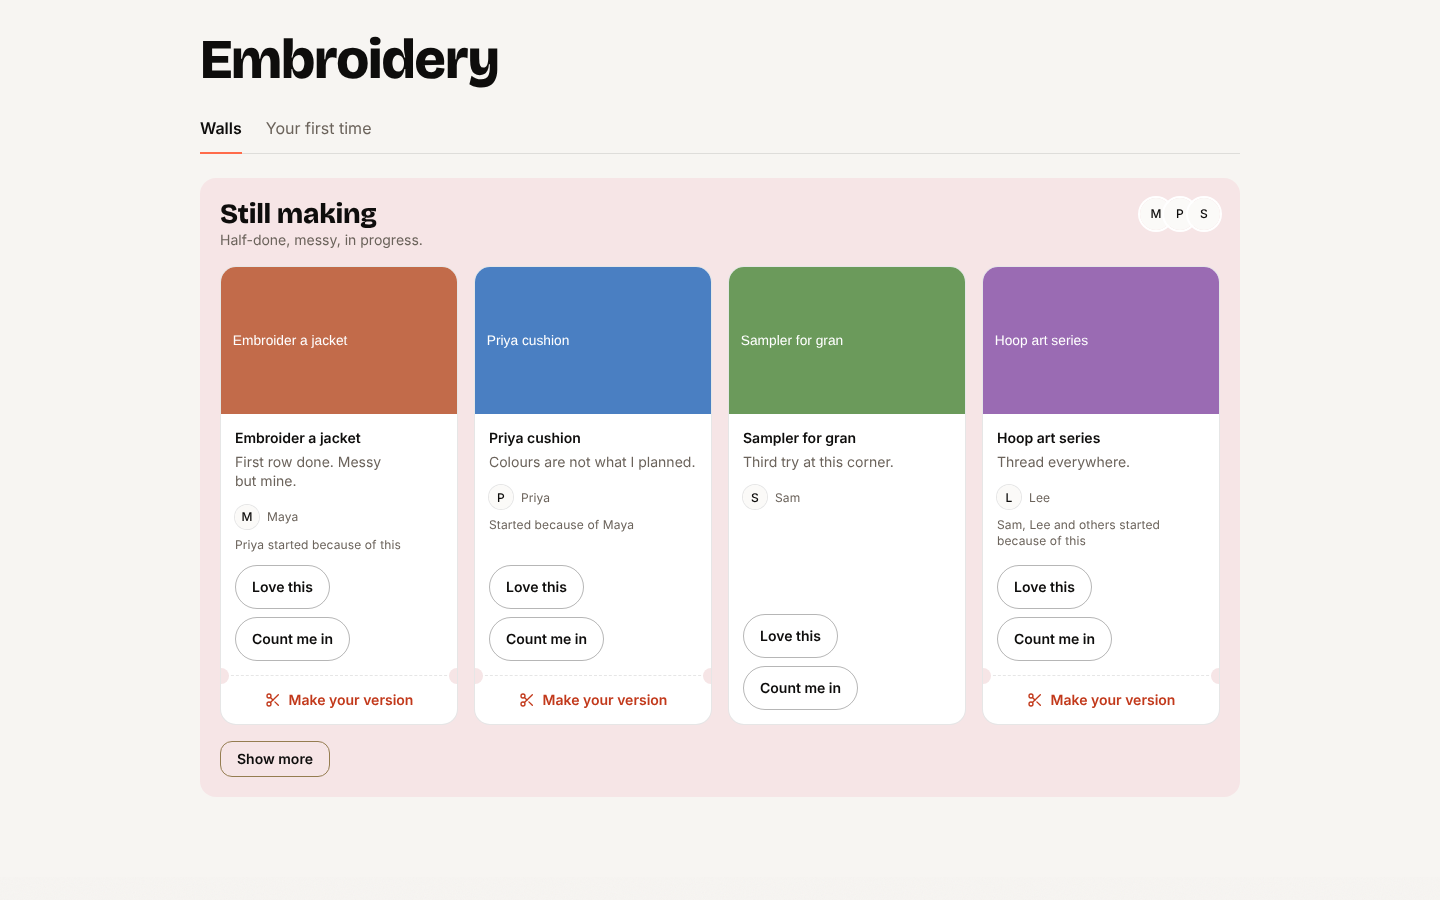
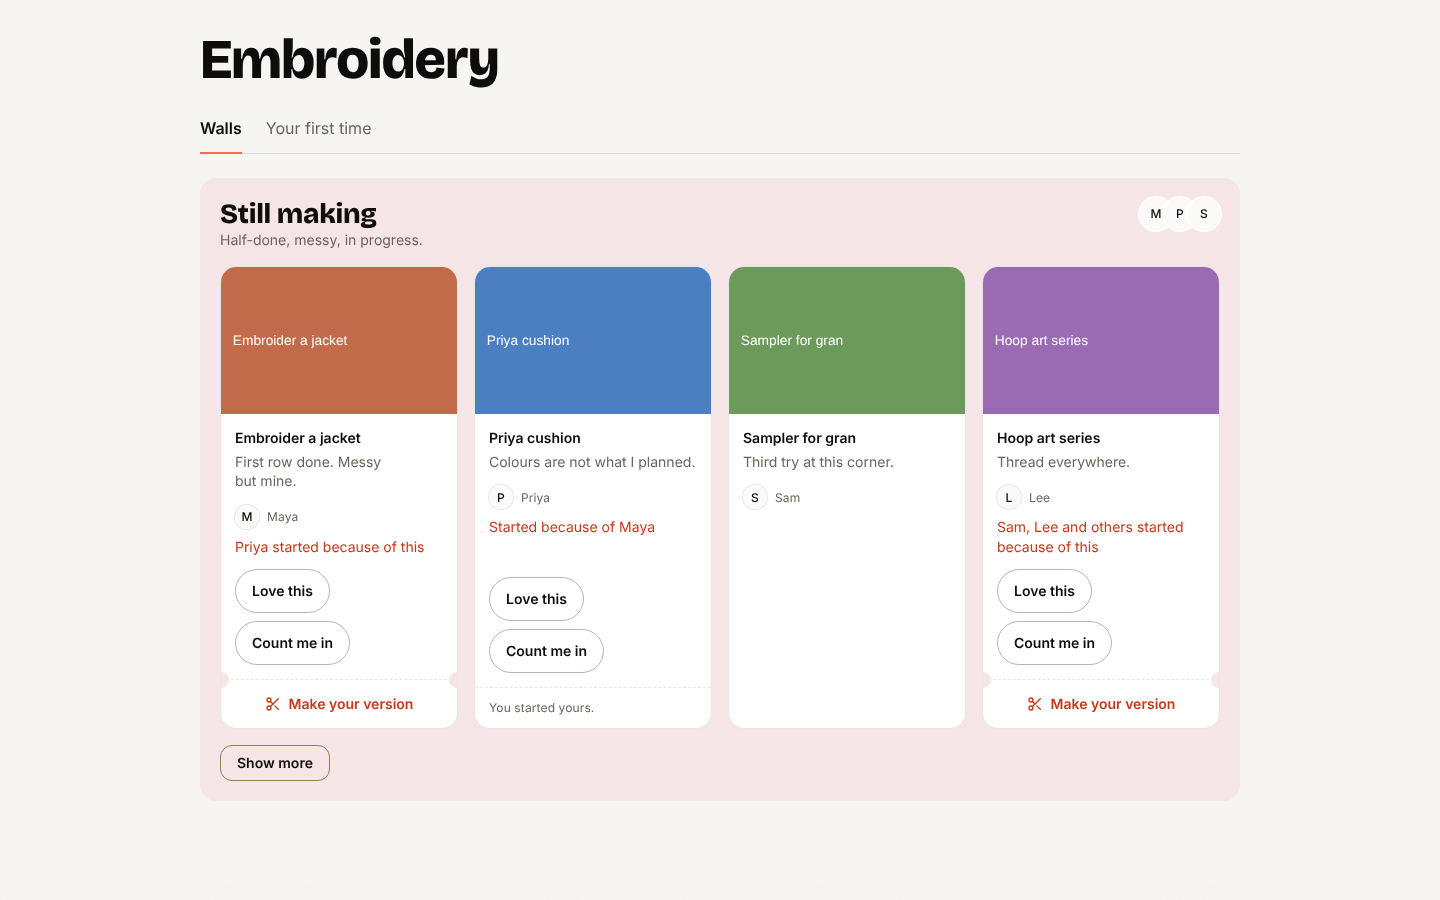
Corner walls review fixes: You started yours, accent lines, 2-up walls, word-boundary chip, Finisher label, no reactions on own cards, prune CornerDetail
Claude-Session: https://claude.ai/code/session_018oaVFK8uX8Z3PfPV6BboAk

diff --git a/src/app/pages/CornerDetail.tsx b/src/app/pages/CornerDetail.tsx
@@ -4,9 +4,6 @@ import { Check, Lock, Sparkle } from "lucide-react";
 import { supabase } from "../../lib/supabase";
 import { useAuth } from "../context/AuthContext";
 import { useContent } from "../context/ContentContext";
-import { PaperStamp, tilt } from "../components/corners/MomentStamp";
-import { formatDate } from "../lib/dates";
-import { momentAlt } from "../lib/momentCaption";
 import { Button } from "../components/ui/button";
 import { Skeleton } from "../components/ui/skeleton";
 import { ErrorNotice } from "../components/StateViews";
@@ -15,8 +12,6 @@ import { ImageWithFallback } from "../components/ImageWithFallback";
 import { HorizontalRow } from "../components/HorizontalRow";
 import { CornerCard } from "../components/corners/CornerCard";
 import { PressLink } from "../components/common/PressLink";
-import { Reveal } from "../components/common/Reveal";
-import { MomentTile } from "../components/common/MomentTile";
 import { MomentDetail } from "../components/MomentDetail";
 import { PursuitDialog } from "../components/PursuitDialog";
 import { CornerWalls } from "../components/corners/CornerWalls";
@@ -35,7 +30,6 @@ import { cornerKey, homeCornersIn } from "../data/homeCorners";
 import { cornerGuide } from "../data/cornerGuides";
 import { cornerStyle } from "../lib/categoryStyle";
 import { cornerPhotoTransitionName } from "../components/discover/HeroCard";
-import { SnapCarousel } from "../components/ui/SnapCarousel";
 import { AvatarStack } from "../components/ui/AvatarStack";
 import { PillButton } from "../components/ui/PillButton";
 import { MakeItAPursuitSheet } from "../components/pursuit/MakeItAPursuitSheet";
@@ -263,17 +257,15 @@ function CornerBody({ corner }: { corner: CornerModel }) {
     };
   }, [corner, user?.id, restricted, liveAttempt]);
 
-  // People into this Corner: whoever shared a public Moment here most recently, newest first. No counts.
+  // The proof line under the hero: the three people who shared a public Moment here most recently. No counts.
   const ranked = useMemo(() => {
     const seen = new Set<string>();
-    const out: { id: string; latest?: Post }[] = [];
     for (const p of [...posts].sort((a, b) => b.createdAt - a.createdAt)) {
       if (!p.userId || seen.has(p.userId)) continue;
       seen.add(p.userId);
-      out.push({ id: p.userId, latest: p.type === "photo" ? p : posts.filter((q) => q.userId === p.userId && q.type === "photo").sort((a, b) => b.createdAt - a.createdAt)[0] });
-      if (out.length === 8) break;
+      if (seen.size === 3) break;
     }
-    return out;
+    return [...seen];
   }, [posts]);
 
   useEffect(() => {
@@ -282,7 +274,7 @@ function CornerBody({ corner }: { corner: CornerModel }) {
     supabase
       .from("profiles")
       .select("id, display_name, avatar_url, username")
-      .in("id", ranked.map((r) => r.id))
+      .in("id", ranked)
       .then(({ data }) => {
         if (!cancelled) setPeople(new Map((data ?? []).map((r) => [r.id as string, toPerson(r)])));
       });
@@ -316,16 +308,8 @@ function CornerBody({ corner }: { corner: CornerModel }) {
       .slice(0, 12);
   })();
 
-  // Your own Moments in this Corner (private ones too), newest first.
-  const mine = useMemo(
-    () =>
-      user && !restricted
-        ? myPosts.filter((p) => isInCorner(p, corner.spaceSlug, corner.slug)).sort((a, b) => b.createdAt - a.createdAt)
-        : [],
-    [myPosts, corner, user, restricted],
-  );
   // Who is into this Corner, from the people who shared a Moment here: a few faces and their names, never a count.
-  const proof = ranked.flatMap((r) => (people.get(r.id) ? [people.get(r.id)!] : [])).slice(0, 3);
+  const proof = ranked.flatMap((id) => (people.get(id) ? [people.get(id)!] : []));
   const proofLine =
     proof.length === 0
       ? ""
@@ -334,10 +318,6 @@ function CornerBody({ corner }: { corner: CornerModel }) {
         : proof.length === 2 && ranked.length === 2
           ? `${proof[0].name.slice(0, 60)} and ${proof[1].name.slice(0, 60)} are into this`
           : `${proof[0].name.slice(0, 60)}, ${proof[1].name.slice(0, 60)} and others are into this`;
-  const showMoments = !restricted && posts.length > 0;
-  // Moments strip: square thumbnails of the Corner's public photo Moments. Hidden under 5 Moments.
-  const stripPosts = posts.filter((p) => p.type === "photo" && !!p.media).slice(0, 12);
-  const showStrip = !restricted && posts.length >= 5 && stripPosts.length >= 5;
   const isMember = (s: LiveSpace) => memberships.get(s.id)?.status === "active";
   const isPending = (s: LiveSpace) => memberships.get(s.id)?.status === "pending";
 

diff --git a/src/app/components/corners/CornerWalls.test.tsx b/src/app/components/corners/CornerWalls.test.tsx
@@ -18,6 +18,7 @@ vi.mock("../../lib/cornerWalls", async (orig) => ({
 }));
 
 import { CornerWalls, wallFaces } from "./CornerWalls";
+import { WallCard as WallCardView } from "./WallCard";
 
 const corner = { spaceSlug: "crafts-making", slug: "embroidery", name: "Embroidery" };
 const card = (over: Partial<WallCard> = {}): WallCard => ({
@@ -93,6 +94,39 @@ describe("CornerWalls", () => {
     expect(cards[1].querySelector("[data-tear-off]")).toBeNull();
   });
 
+  it("hides Love this and Count me in on your own card, keeps them on others, and shows Finisher with the Stub icon", async () => {
+    wall([card({ postId: 1 }), card({ postId: 2, mine: true, authorName: "You" })], [card({ postId: 3, finishedAt: Date.parse("2026-10-20T12:00:00Z"), finisherStub: true }), card({ postId: 4, finishedAt: Date.parse("2026-10-19T12:00:00Z") })]);
+    setup();
+    await screen.findByRole("heading", { name: "Made it" });
+    const byId = (id: number) => document.querySelector<HTMLElement>(`[data-wall-card="${id}"]`)!;
+    expect(within(byId(1)).getByRole("button", { name: /Love this/ })).toBeTruthy();
+    expect(within(byId(1)).getByRole("button", { name: /Count me in/ })).toBeTruthy();
+    expect(within(byId(2)).queryByRole("button", { name: /Love this|Count me in/ })).toBeNull();
+    expect(within(byId(3)).getByText("Finisher")).toBeTruthy();
+    expect(byId(3).querySelector("svg.lucide-ticket")).toBeTruthy();
+    expect(within(byId(4)).queryByText("Finisher")).toBeNull();
+  });
+
+  it("puts the started-because lines in the accent text colour at the small size", async () => {
+    wall([card({ startedBecause: ["Sam"], inspiredByName: "Maya", inspiredByPostId: 9 })], []);
+    setup();
+    for (const t of ["Started because of Maya", "Sam started because of this"]) {
+      const el = await screen.findByText(t);
+      expect(el.className).toContain("text-small");
+      expect(el.className).toContain("text-[var(--accent-text)]");
+      expect(el.className).not.toContain("text-caption");
+    }
+  });
+
+  it("after you started your own, the strip is the one line You started yours.", async () => {
+    wall([card({ postId: 1 })], []);
+    // The set of Moments you started because of comes from the database; none here, so the strip shows.
+    setup();
+    await screen.findByRole("heading", { name: "Still making" });
+    expect(screen.queryByText("You started yours.")).toBeNull();
+    expect(screen.queryByText(/Yours is on/)).toBeNull();
+  });
+
   it("an empty Made it has no panel and no phone control; Still making is on its own", async () => {
     wall([card()], []);
     setup();
@@ -134,6 +168,19 @@ describe("CornerWalls", () => {
     expect(container.querySelectorAll("img").length).toBe(0);
     expect(container.querySelector("[data-wall-card]")).toBeNull();
     expect(container.textContent).not.toMatch(/Maya|Priya/);
+  });
+});
+
+describe("WallCard once you started your own", () => {
+  it("replaces the tear-off with the muted line You started yours.", () => {
+    const { container } = render(
+      <ul>
+        <WallCardView card={card()} kind="making" yoursStarted onOpen={vi.fn()} onMake={vi.fn()} />
+      </ul>,
+    );
+    expect(screen.getByText("You started yours.")).toBeTruthy();
+    expect(screen.queryByRole("button", { name: "Make your version" })).toBeNull();
+    expect(container.querySelector("[data-tear-off]")).toBeNull();
   });
 });
 

diff --git a/src/app/components/corners/WallCard.tsx b/src/app/components/corners/WallCard.tsx
@@ -1,4 +1,4 @@
-import { Scissors } from "lucide-react";
+import { Scissors, Ticket } from "lucide-react";
 import { ImageWithFallback } from "../ImageWithFallback";
 import { PillButton } from "../ui/PillButton";
 import { Avatar, AvatarFallback, AvatarImage } from "../ui/avatar";
@@ -12,7 +12,7 @@ export const WALL_COPY = {
   stillMakingLine: "Half-done, messy, in progress.",
   madeItLine: "Finished things, with the Moments that got them here.",
   makeYourVersion: "Make your version",
-  yoursIsOn: "Yours is on Still making.",
+  youStarted: "You started yours.",
   passedAlong: "Passed along",
   passedAlongLine: "Who got whom into it here.",
   you: "You?",
@@ -75,9 +75,14 @@ export function WallCard({
           {title && <span className="line-clamp-2 break-words text-small font-semibold">{title}</span>}
           {card.caption && <span className="line-clamp-3 break-words text-small text-muted-foreground">{card.caption}</span>}
           {kind === "made" && card.finishedAt != null && (
-            <span className="flex items-center gap-1.5 text-caption font-semibold text-foreground">
-              {card.finisherStub && <span role="img" aria-label="Finisher Stub" className="inline-block size-2.5 rounded-full bg-[var(--success)]" />}
-              {`Finished ${formatDate(card.finishedAt)}`}
+            <span className="flex flex-wrap items-center gap-x-3 gap-y-1 text-caption font-semibold text-foreground">
+              <span>{`Finished ${formatDate(card.finishedAt)}`}</span>
+              {card.finisherStub && (
+                <span className="inline-flex items-center gap-1 text-[var(--accent-text)]">
+                  <Ticket className="size-3.5" aria-hidden="true" />
+                  Finisher
+                </span>
+              )}
             </span>
           )}
         </span>
@@ -90,13 +95,17 @@ export function WallCard({
           </Avatar>
           <span className="truncate">{card.authorName}</span>
         </span>
-        {because && <p className="text-caption text-muted-foreground">{because}</p>}
-        {others && <p className="text-caption text-muted-foreground">{others}</p>}
-        <div className="mt-auto pt-1"><Reactions postId={card.postId} name={card.authorName} /></div>
+        {because && <p className="text-small text-[var(--accent-text)]">{because}</p>}
+        {others && <p className="text-small text-[var(--accent-text)]">{others}</p>}
+        {!card.mine && (
+          <div className="mt-auto pt-1">
+            <Reactions postId={card.postId} name={card.authorName} />
+          </div>
+        )}
       </div>
       {!card.mine &&
         (yoursStarted ? (
-          <p className="border-t border-dashed border-border px-3.5 py-3 text-caption text-muted-foreground">{WALL_COPY.yoursIsOn}</p>
+          <p className="border-t border-dashed border-border px-3.5 py-3 text-caption text-muted-foreground">{WALL_COPY.youStarted}</p>
         ) : (
           <div className="relative border-t border-dashed border-border" data-tear-off>
             <span aria-hidden="true" className="absolute -left-2 -top-2 size-4 rounded-full bg-[var(--wall-tint)]" />

diff --git a/src/app/lib/cornerWalls.test.ts b/src/app/lib/cornerWalls.test.ts
@@ -1,5 +1,5 @@
 import { describe, expect, it } from "vitest";
-import { cardsFromRows, chainsFromRows, seedFromCard, startedBecauseLine, startedBecauseOfLine, type PassedRow, type WallRow } from "./cornerWalls";
+import { cardsFromRows, chainsFromRows, clipTitle, seedFromCard, startedBecauseLine, startedBecauseOfLine, type PassedRow, type WallRow } from "./cornerWalls";
 
 const row = (over: Partial<WallRow> = {}): WallRow => ({
   wall: "making",
@@ -66,7 +66,7 @@ describe("chainsFromRows", () => {
   });
   it("builds the source chip with its title, then first names, and ends at the newest Moment", () => {
     const [c] = chainsFromRows([p(1, 2, "b", "Priya", null, 22), p(1, 1, "a", "Maya", "Embroider a jacket for the", 11)], "z");
-    expect(c.chips).toEqual(["Maya’s Embroider a jacket for t", "Priya"]);
+    expect(c.chips).toEqual(["Maya’s Embroider a jacket for…", "Priya"]);
     expect(c.lastPostId).toBe(22);
     expect(c.mine).toBe(false);
   });
@@ -83,5 +83,32 @@ describe("seedFromCard", () => {
     const seed = seedFromCard(card, { spaceSlug: "crafts-making", slug: "embroidery" });
     expect(seed).toMatchObject({ id: 7, hobbySlug: "crafts-making", subHobby: "embroidery", userId: "u1", creator: "Maya" });
     expect(seed.caption.split(".")[0]).toBe("First row done");
+  });
+});
+
+describe("clipTitle", () => {
+  it("leaves a short title alone", () => {
+    expect(clipTitle("Jacket")).toBe("Jacket");
+    expect(clipTitle("A title of 23 chars ok")).toBe("A title of 23 chars ok");
+  });
+  it("cuts a long title at a word boundary, adds …, and never goes past 24 characters", () => {
+    for (const t of ["Embroider a jacket for the whole winter", "Embroider a jacket for t", "Sourdough with a long rise time", "Learn to play the saxophone properly"]) {
+      const out = clipTitle(t);
+      expect(out.length).toBeLessThanOrEqual(24);
+      expect(out.endsWith("…")).toBe(true);
+      // Never mid-word: what is left is whole words from the start of the title.
+      const kept = out.slice(0, -1);
+      expect(t.startsWith(kept)).toBe(true);
+      expect(t[kept.length] === " " || t[kept.length] === undefined).toBe(true);
+    }
+    expect(clipTitle("Embroider a jacket for the whole winter")).toBe("Embroider a jacket for…");
+  });
+  it("drops punctuation left dangling before the …", () => {
+    expect(clipTitle("Jacket, scarf, hat and gloves, mittens")).toBe("Jacket, scarf, hat and…");
+  });
+  it("cuts a single very long word where it is, within the limit", () => {
+    const out = clipTitle("Supercalifragilisticexpialidocious");
+    expect(out.length).toBeLessThanOrEqual(24);
+    expect(out.endsWith("…")).toBe(true);
   });
 });

diff --git a/src/app/lib/cornerWalls.ts b/src/app/lib/cornerWalls.ts
@@ -145,6 +145,20 @@ export interface Chain {
   mine: boolean;
 }
 
+/**
+ * A Pursuit title for the source chip: 24 characters at most, cut at a word boundary with "…", never
+ * mid-word. The RPC already cuts at 24, so a title of 24 characters may be a longer one cut short; it is
+ * treated as one. (A single word longer than the chip has to be cut where it is.)
+ */
+export function clipTitle(title: string, max = 24): string {
+  const t = title.trim().replace(/\s+/g, " ");
+  if (t.length < max) return t;
+  const room = t.slice(0, max - 1);
+  const cut = room.lastIndexOf(" ");
+  const base = (cut > 0 ? room.slice(0, cut) : room).replace(/[\s,;:.\-]+$/, "");
+  return `${base}…`;
+}
+
 /** Groups the RPC rows into chains, in chain_no and pos order, with the chips each shows. */
 export function chainsFromRows(rows: readonly PassedRow[], meId?: string): Chain[] {
   const byChain = new Map<number, PassedRow[]>();
@@ -157,7 +171,7 @@ export function chainsFromRows(rows: readonly PassedRow[], meId?: string): Chain
       const links = sorted.map((r) => ({ authorId: r.author_id, name: nameOf(r.author_first_name), pursuitId: r.pursuit_id, lastPostId: r.last_post_id }));
       const chips = sorted.map((r, i) => {
         const name = nameOf(r.author_first_name).slice(0, 60);
-        const title = (r.pursuit_title ?? "").trim().slice(0, 24).trim();
+        const title = clipTitle(r.pursuit_title ?? "");
         return i === 0 ? (title ? `${name}’s ${title}` : name) : name;
       });
       return [{ links, chips, lastPostId: links[links.length - 1].lastPostId, mine: !!meId && links.some((l) => l.authorId === meId) }];

diff --git a/src/app/components/corners/CornerWalls.tsx b/src/app/components/corners/CornerWalls.tsx
@@ -269,7 +269,7 @@ export function CornerWalls({
 
   const both = show.making && show.made;
   const renderCards = (kind: WallKind, wall: Wall) => (
-    <ul className={`grid gap-4 ${both ? "tab:grid-cols-2 desk:grid-cols-1" : "tab:grid-cols-2 desk:grid-cols-4"}`}>
+    <ul className={`grid gap-4 ${both ? "tab:grid-cols-2" : "tab:grid-cols-2 desk:grid-cols-4"}`}>
       {wall.cards.map((c) => (
         <WallCard key={`${kind}-${c.postId}`} card={c} kind={kind} yoursStarted={mineStarted.has(c.postId)} onOpen={() => onOpenMoment(c)} onMake={() => onMake(c)} />
       ))}

diff --git a/docs/glossary.md b/docs/glossary.md
@@ -985,10 +985,11 @@ A Corner page shows what people are making, finished or not, and lets you start 
 | Finished things, with the Moments that got them here. | The line under the Made it heading |
 | Finished {date} | On a Made it card, with the date from `dates.ts` |
 | Make your version | The tear-off strip on a wall card (not on your own Moment). Starts your own Pursuit inspired by that Moment. Different from Count me in, which leads to doing it together |
-| Yours is on Still making. | Replaces the strip once you have started your own because of that Moment |
-| Started because of {Name} | On a card whose Pursuit started because of another person's Moment you may see. Shown only when you can open that Moment |
+| You started yours. | Replaces the strip once you have started your own because of that Moment. It only shows once your Moment is on the wall, which is about 2 hours after you post it (the 2 hour hold). Replaces "Yours is on Still making." (founder, Nov 8, 2026) |
+| Finisher | On a Made it card, with the Stub icon, when the Pursuit's owner holds its Finisher Stub |
+| Started because of {Name} | On a card whose Pursuit started because of another person's Moment you may see, in the accent text colour at the small text size. Shown only when you can open that Moment |
 | {A} started because of this / {A} and {B} started because of this / {A}, {B} and others started because of this | On a card whose Moment other people started a Pursuit because of. Never a number |
-| Passed along | The section of chains, each a row of chips with arrows |
+| Passed along | The section of chains, each a row of chips with arrows. The source chip's Pursuit title is cut at a word boundary with … (24 characters at most), never mid-word |
 | Who got whom into it here. | The line under Passed along |
 | You? | The dashed last chip of a chain. Opens Make your version for the chain's newest Moment |
 | Members see who's making what. | The card over the blurred Walls for visitors (signed out, or not approved yet), with the Sign up button. It replaces "Members see who's going." on the Corner page |
